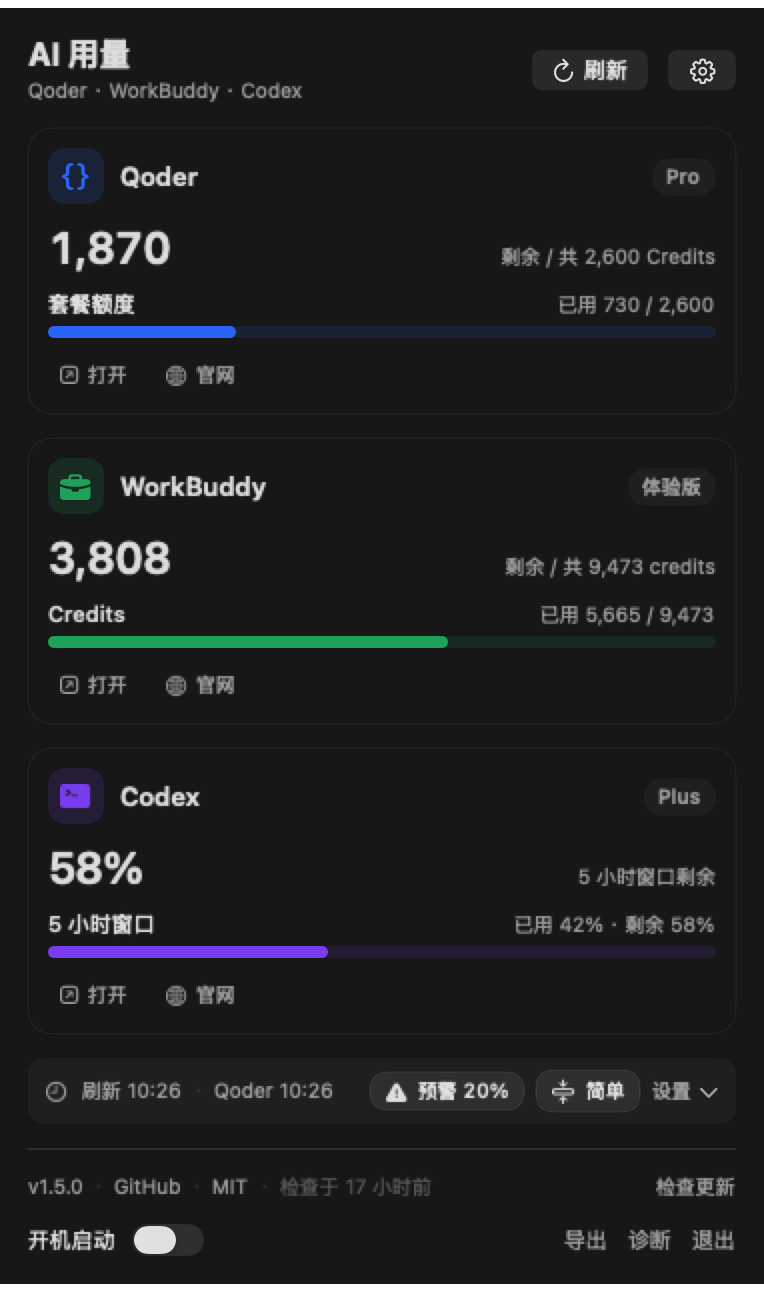
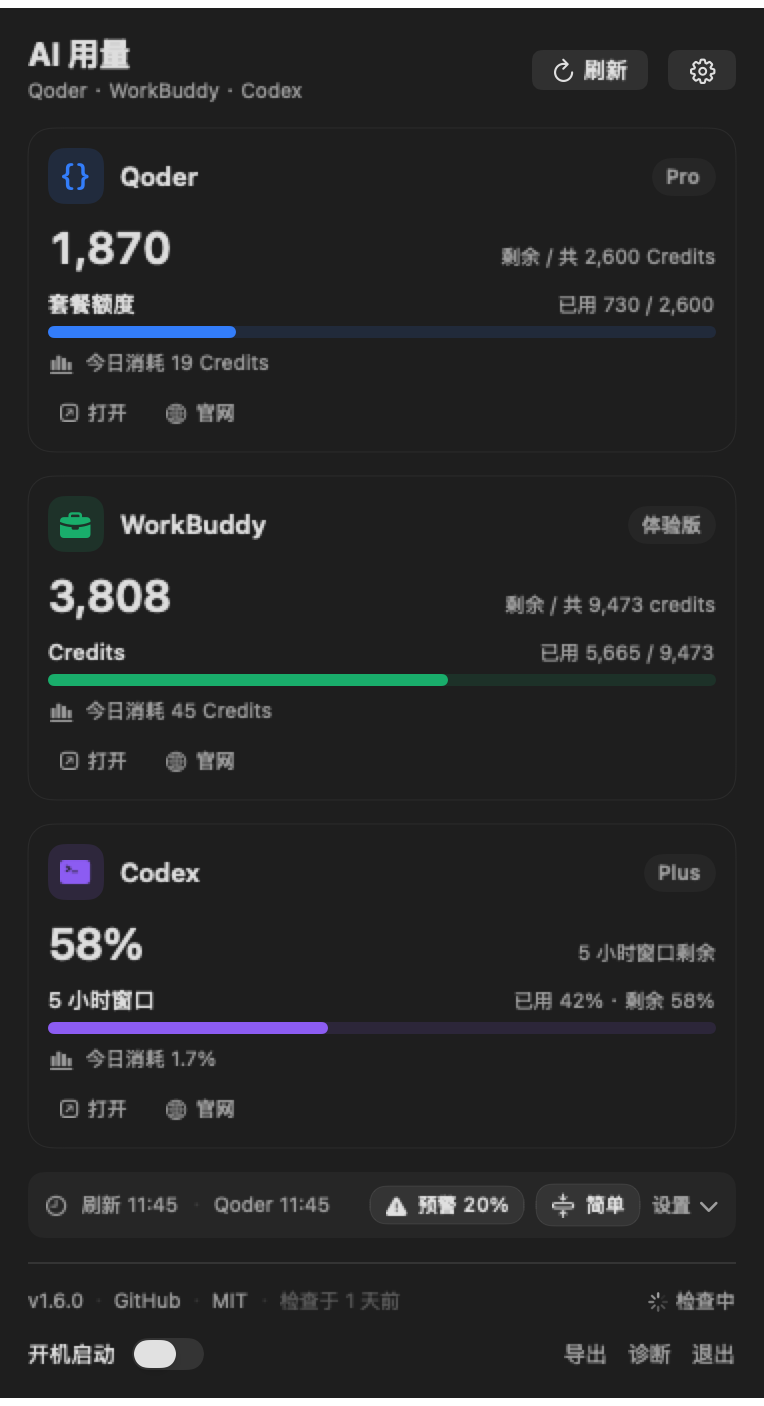
Show today's consumption in simple mode
今日消耗是用户最常盯的指标，简单模式此前把它和其余洞察一起隐藏了。

diff --git a/Views.swift b/Views.swift
@@ -2402,7 +2402,7 @@ struct MenuContent: View {
                 isOn: $store.simpleMode,
                 iconOn: "rectangle.compress.vertical",
                 iconOff: "rectangle.expand.vertical",
-                help: "简单模式：三个平台只显示主要用量，隐藏洞察、预测与更新时间"
+                help: "简单模式：三个平台只显示主要用量与今日消耗，隐藏预测与更新时间"
             )
             Button {
                 settingsExpanded.toggle()
@@ -2666,6 +2666,7 @@ struct MenuContent: View {
         ) {
             if store.simpleMode {
                 qoderPrimaryBar
+                simpleTodayRow(.qoder)
             } else if let qoder = store.qoder {
                 let addonTotal = qoder.addonTotal ?? 0
                 let addonUsed = qoder.addonUsed ?? 0
@@ -2759,6 +2760,7 @@ struct MenuContent: View {
         ) {
             if store.simpleMode {
                 workbuddyPrimaryBar
+                simpleTodayRow(.workbuddy)
             } else if let workbuddy = store.workbuddy, let total = workbuddy.total, total > 0 {
                 UsageBar(
                     label: "Credits",
@@ -2824,6 +2826,7 @@ struct MenuContent: View {
         ) {
             if store.simpleMode {
                 codexPrimaryBar
+                simpleTodayRow(.codex)
             } else if let codex = store.codex {
                 if let windows = codex.windows, !windows.isEmpty {
                     ForEach(windows) { window in
@@ -2924,6 +2927,22 @@ struct MenuContent: View {
             }
             .foregroundStyle(.secondary)
             .help("按本机历史采样估算，领取或重置带来的增加不计入消耗；日均需至少 6 小时样本，已观察 \(insight.observedDays) 天。")
+        }
+    }
+
+    @ViewBuilder
+    private func simpleTodayRow(_ provider: UsageProvider) -> some View {
+        if let insight = store.insight(for: provider), let today = insight.todayConsumed {
+            HStack(spacing: 5) {
+                Image(systemName: "chart.bar.xaxis")
+                    .font(.system(size: 10, weight: .semibold))
+                Text("今日消耗 \(insightValue(today, percent: insight.isPercent))")
+                    .font(Token.meta)
+                    .lineLimit(1)
+                Spacer(minLength: 0)
+            }
+            .foregroundStyle(.secondary)
+            .help("按本机历史采样估算，领取或重置带来的增加不计入消耗。")
         }
     }
 
@@ -3117,7 +3136,7 @@ struct MenuContent: View {
                 isOn: $store.simpleMode,
                 iconOn: "rectangle.compress.vertical",
                 iconOff: "rectangle.expand.vertical",
-                help: "三个平台只显示主要用量，隐藏洞察、预测与更新时间"
+                help: "三个平台只显示主要用量与今日消耗，隐藏预测与更新时间"
             )
         }
     }
